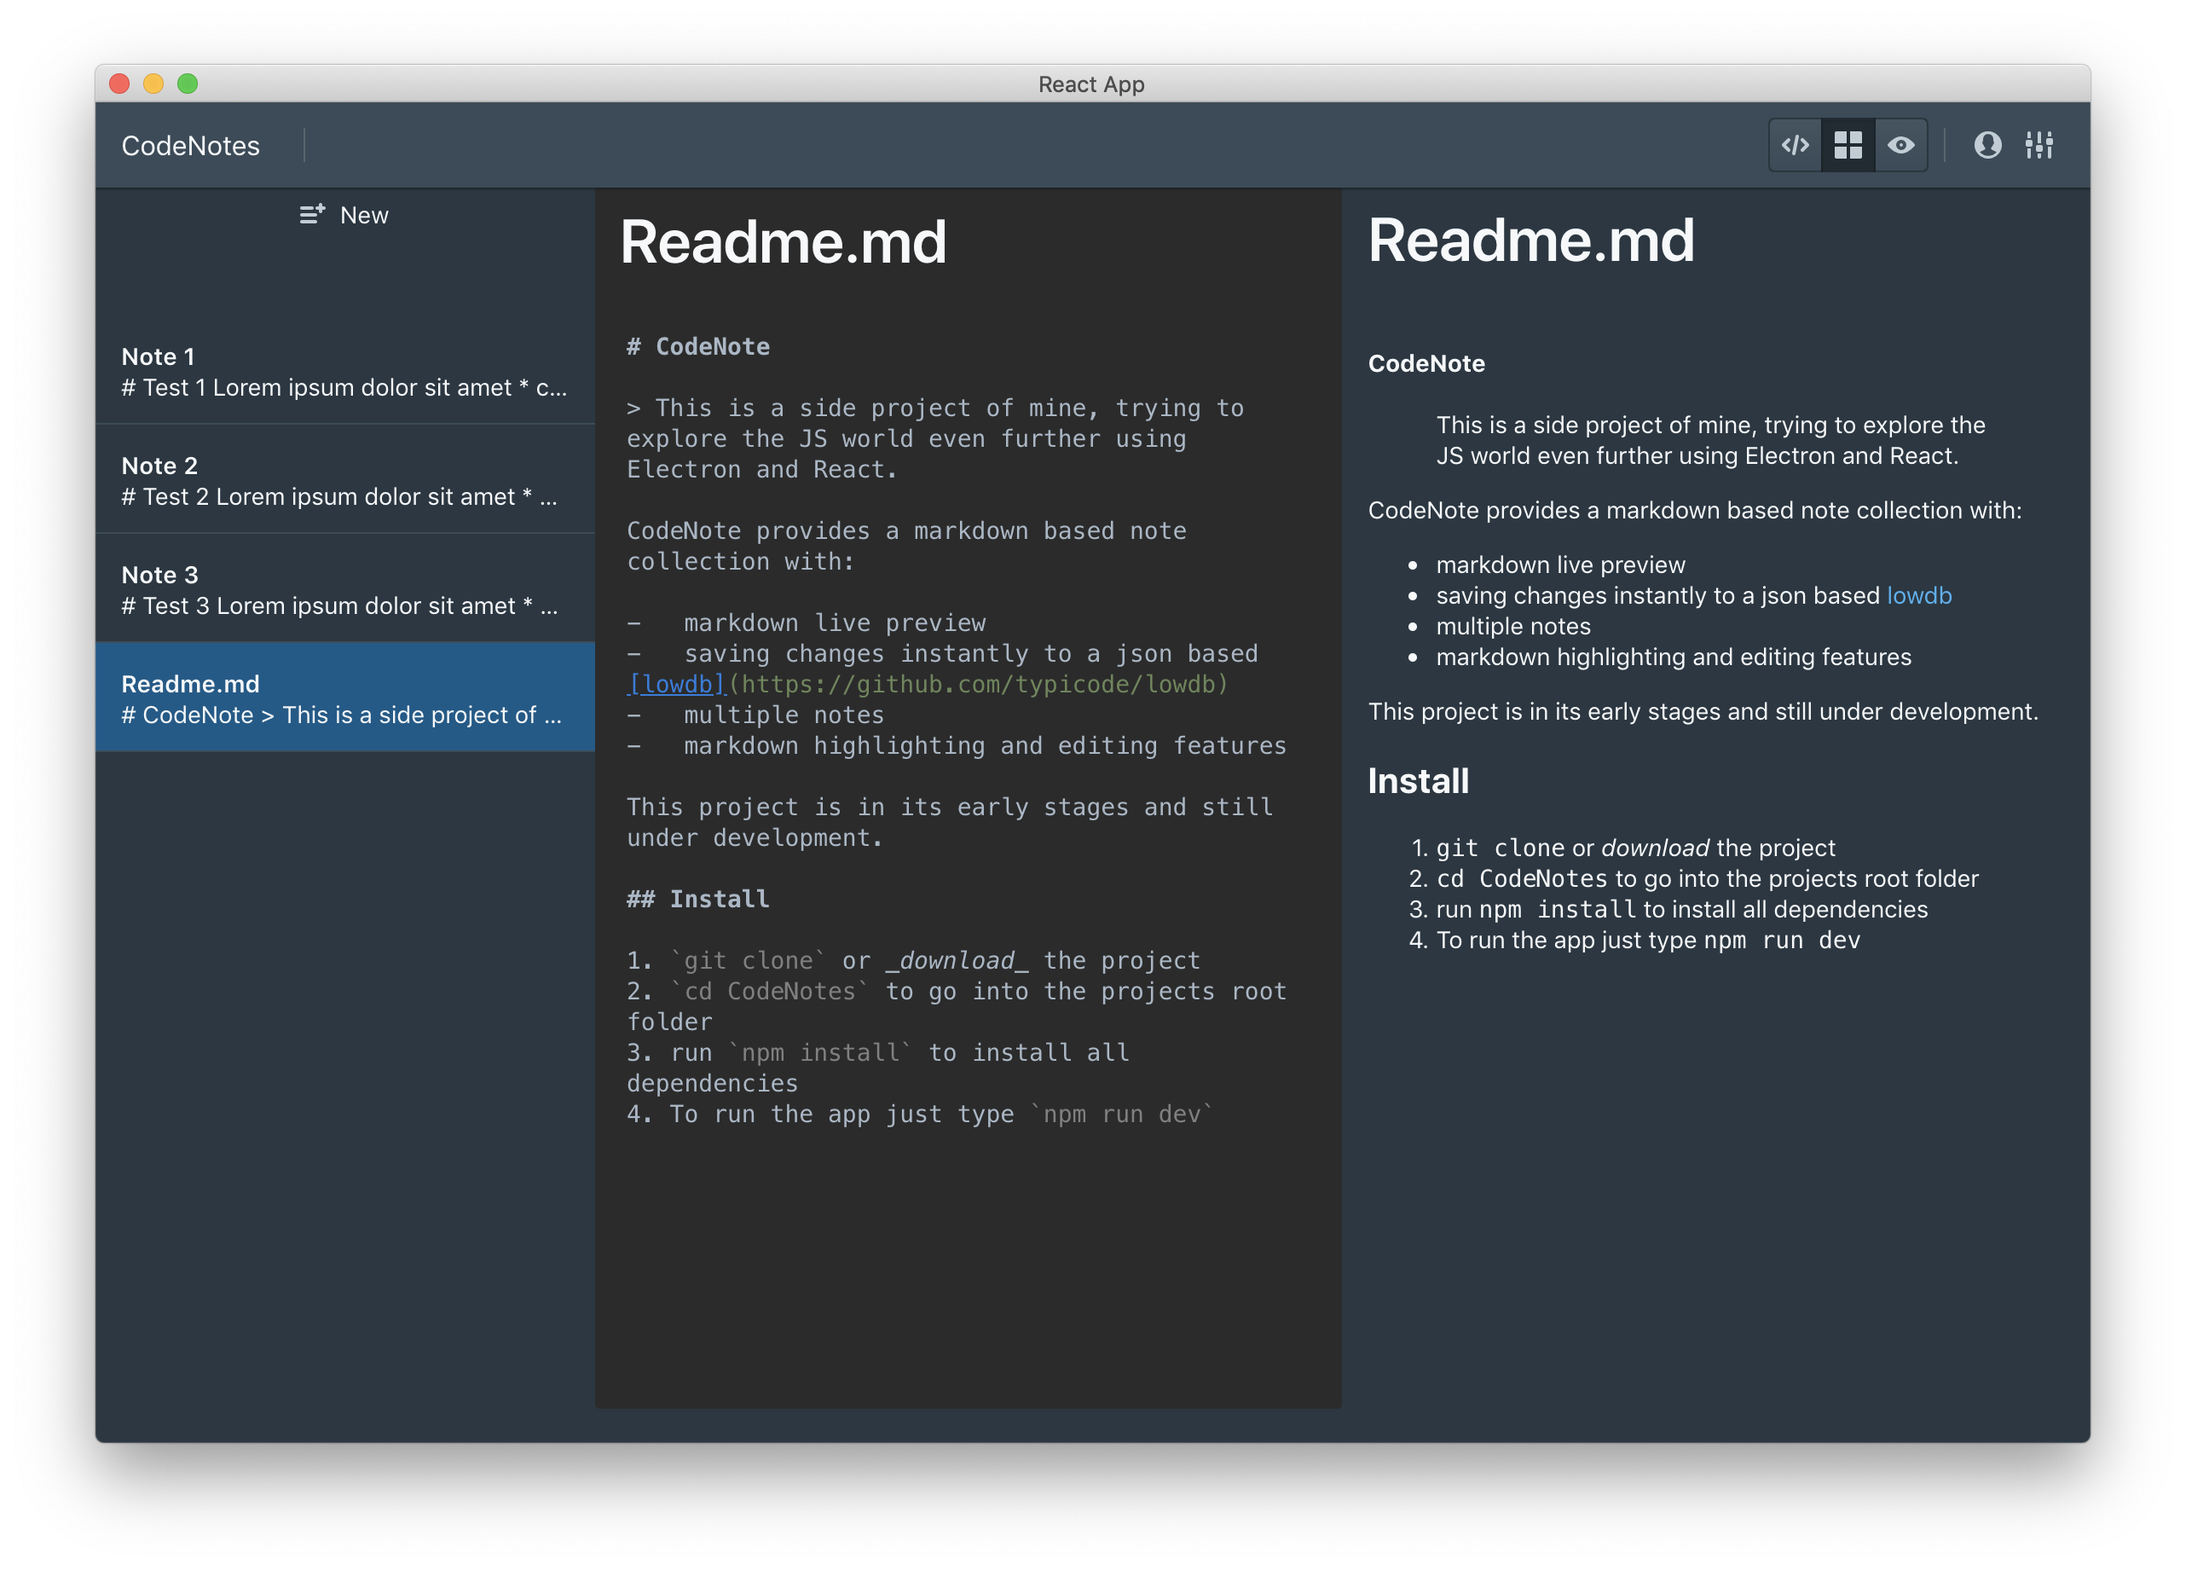
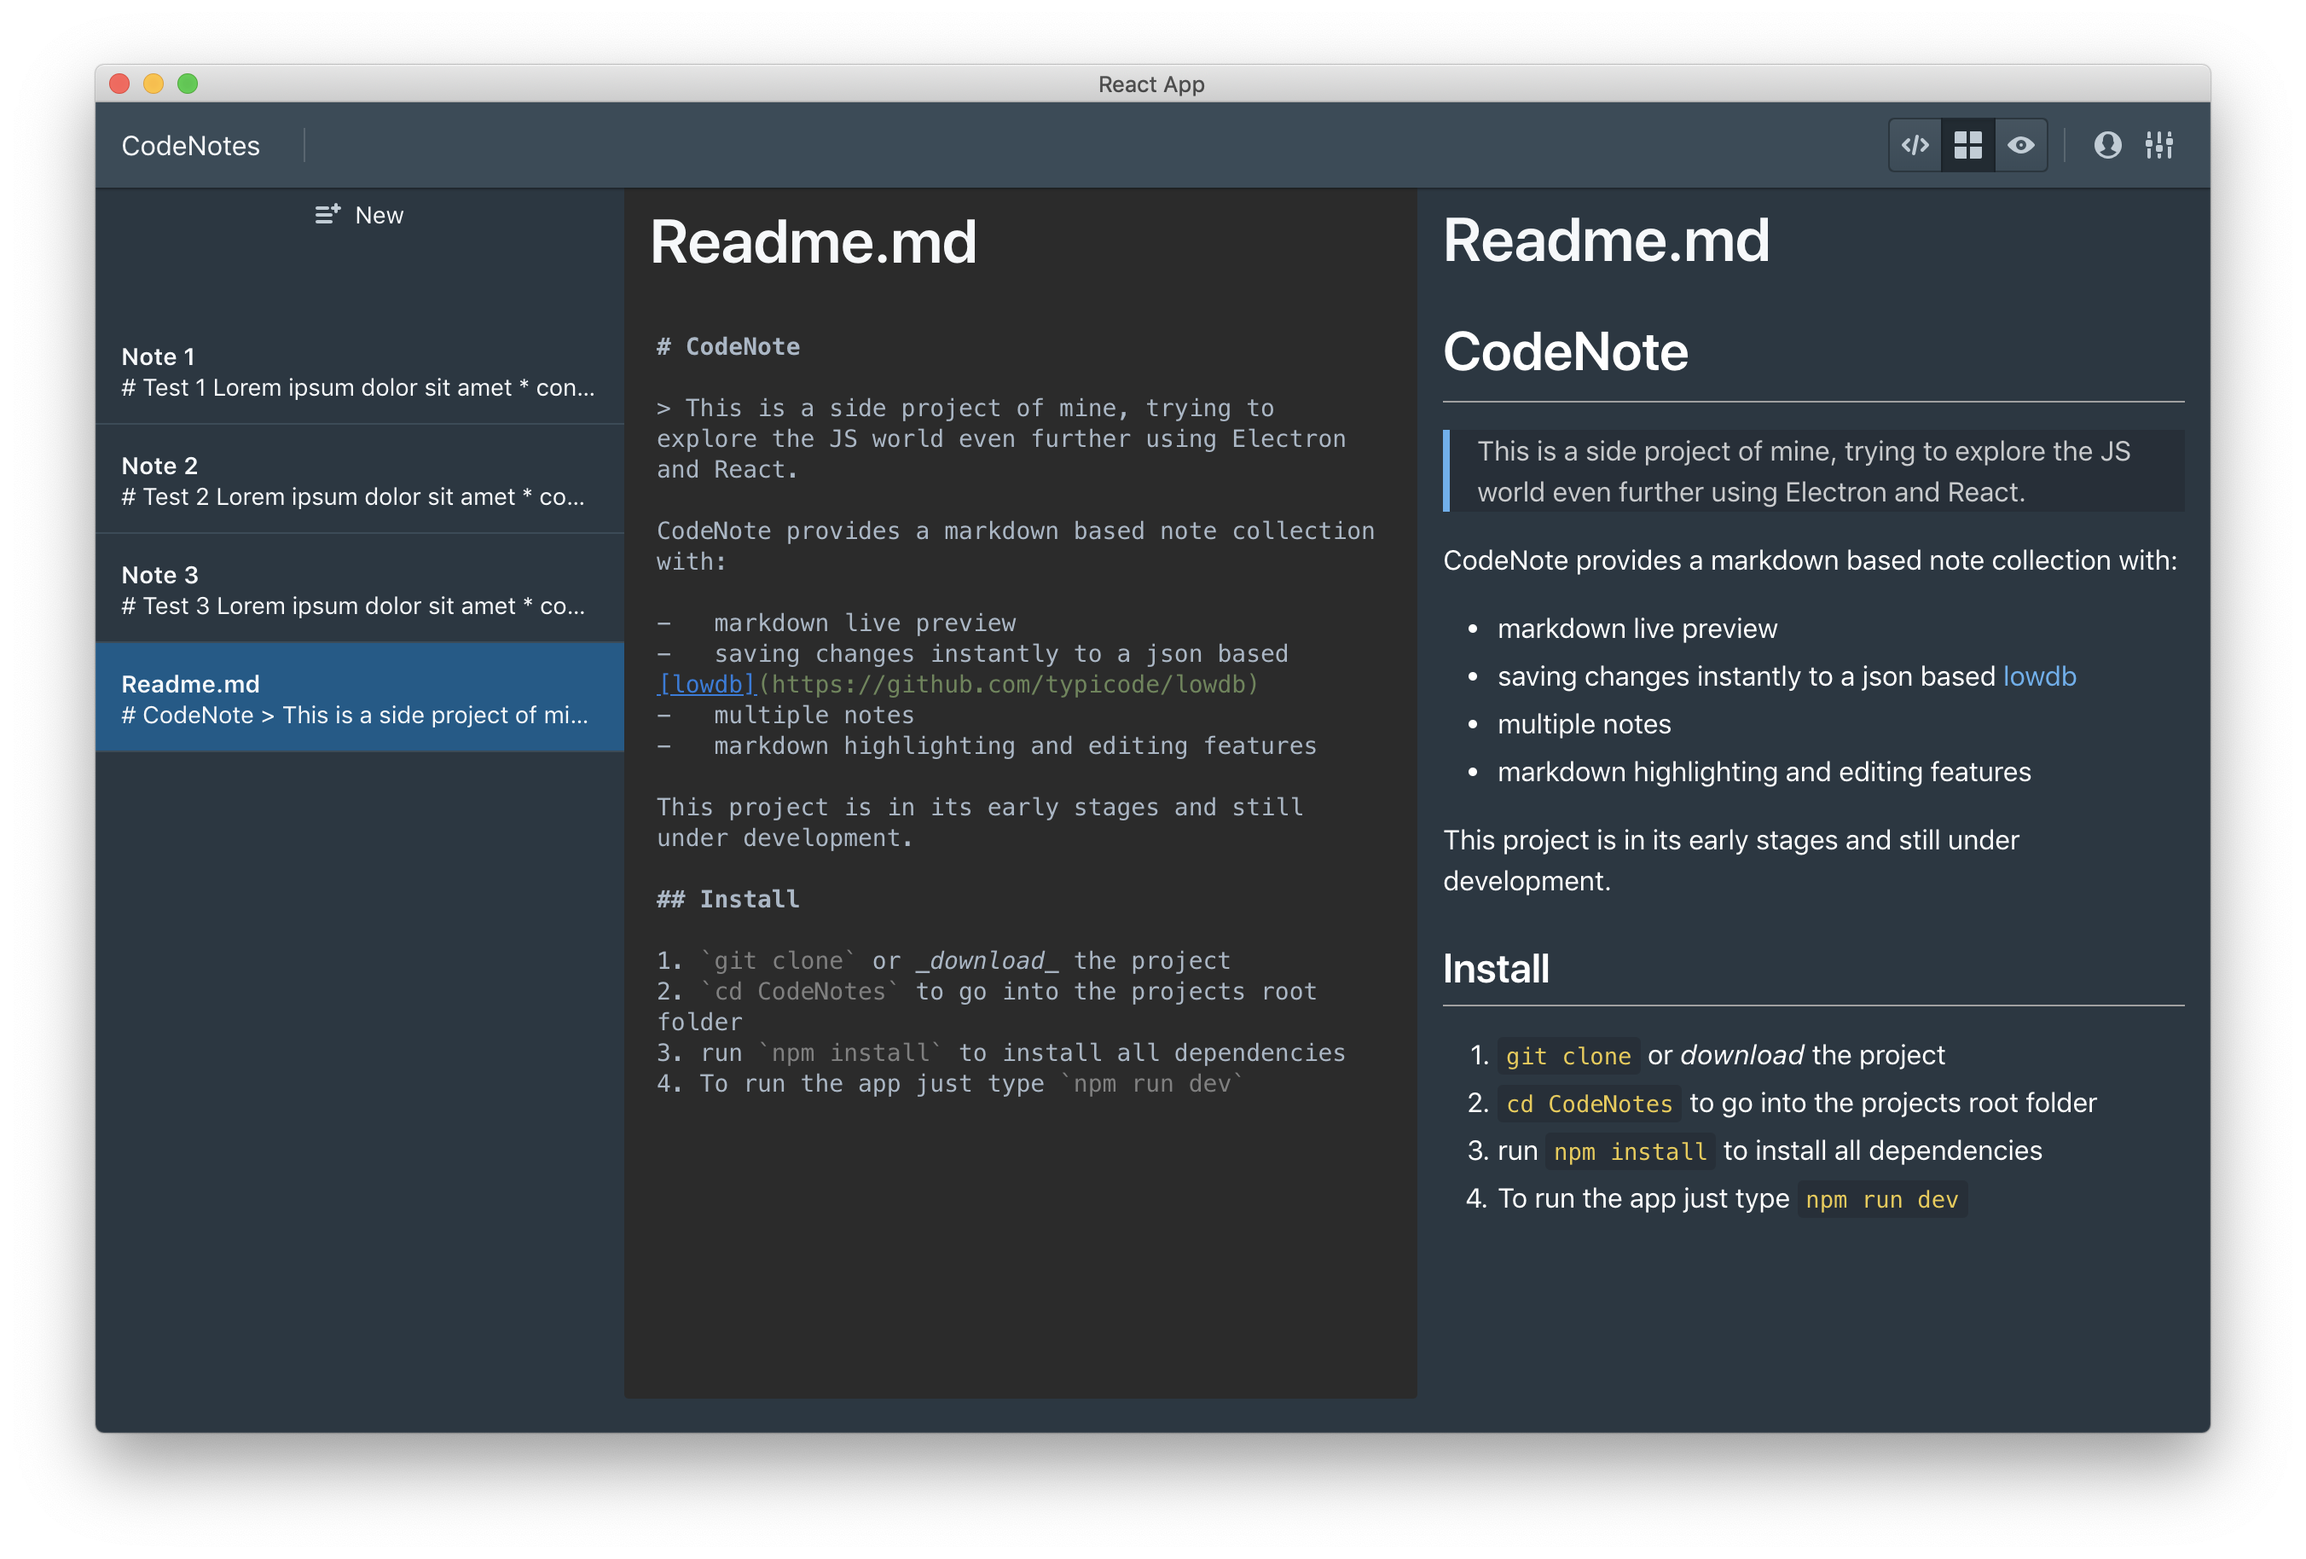
update md preview theme

diff --git a/src/components/noteviewer/NoteViewer.scss b/src/components/noteviewer/NoteViewer.scss
@@ -1,3 +1,9 @@
+$md-preview-link-color: #61afef;
+$md-preview-code-color: #ebcc43;
+$md-preview-highlight-background-color: rgba(27, 31, 35, 0.3);
+$md-preview-highlight-border-color: #61afef;
+$md-preview-border-color: rgb(161, 161, 161);
+
 .note-viewer-container {
     display: grid;
     grid-template-rows: 75px auto;
@@ -15,5 +21,35 @@
     & > .note-viewer {
         overflow: auto;
         height: 100%;
+        color: white;
+
+        a {
+            color: $md-preview-link-color;
+        }
+
+        code {
+            color: $md-preview-code-color;
+            background-color: $md-preview-highlight-background-color;
+        }
+
+        blockquote {
+            border-left: 0.25em solid $md-preview-highlight-border-color;
+            background-color: $md-preview-highlight-background-color;
+            color: rgba(255, 255, 255, 0.75);
+            font-size: 1rem;
+        }
+
+        h1,
+        h2 {
+            border-bottom: 1px solid $md-preview-border-color;
+        }
+        table > thead > tr > th {
+            border-color: $md-preview-border-color;
+        }
+
+        hr,
+        table > tbody > tr + tr > td {
+            border-color: $md-preview-border-color;
+        }
     }
 }

diff --git a/src/components/noteviewer/NoteViewer.js b/src/components/noteviewer/NoteViewer.js
@@ -4,6 +4,7 @@ import PubSub from "pubsub-js";
 import { H1 } from "@blueprintjs/core";
 
 import "./NoteViewer.scss";
+import "github-markdown-css/github-markdown.css";
 
 class NoteViewer extends Component {
     constructor(props) {
@@ -11,6 +12,14 @@ class NoteViewer extends Component {
         this.state = {
             note: null
         };
+        showdown.setFlavor("github");
+        showdown.setOption("emoji", true);
+        showdown.setOption("tasklists", true);
+        showdown.setOption("smoothLivePreview", true);
+        showdown.setOption("ghCodeBlocks", true);
+        showdown.setOption("tables", true);
+        showdown.setOption("strikethrough", true);
+
         this.converter = new showdown.Converter();
     }
 
@@ -35,7 +44,7 @@ class NoteViewer extends Component {
                         <H1>{note.title}</H1>
                     </div>
                     <section
-                        className="note-viewer"
+                        className="note-viewer markdown-body"
                         dangerouslySetInnerHTML={{
                             __html: this.converter.makeHtml(note.content)
                         }}

diff --git a/src/variables.scss b/src/variables.scss
@@ -10,9 +10,9 @@ $toolbar-color: #30404d;
 $box-padding: 15px;
 
 %not-selectable {
-    /*-webkit-user-select: none;
+    -webkit-user-select: none;
     -moz-user-select: none;
     -ms-user-select: none;
     -o-user-select: none;
-    user-select: none;*/
+    user-select: none;
 }
